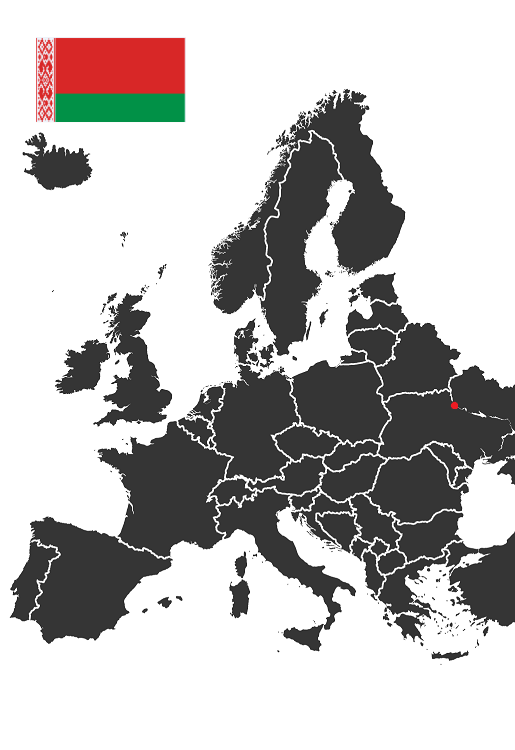
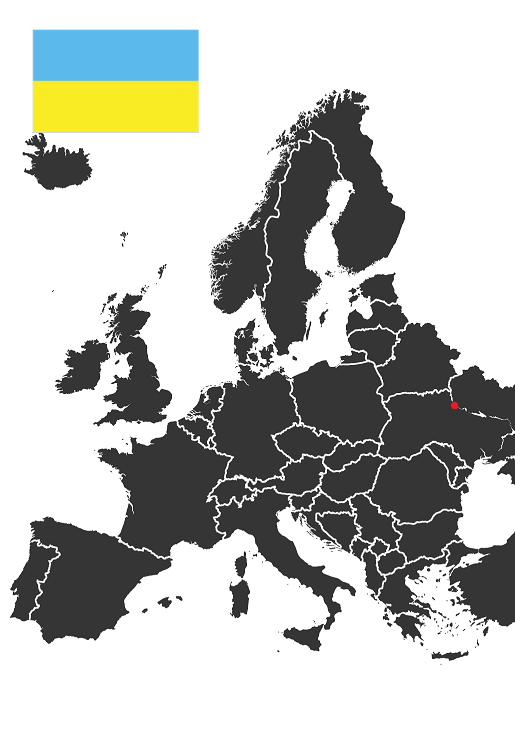
replaced europe-14 and small corrections in How to play?

Changed region(s): [[0.0621, 0.0307, 0.4039, 0.184]]

diff --git a/index.html b/index.html
@@ -145,9 +145,9 @@
                             <li>Enter it's name and hit submit</li>
                             <li>If you're right, you get 15 points</li>
                             <li>Not sure? Ask for a hint and the flag of the nation of the capital is shown</li>
-                            <li>A hint will cost you 5 point, just like a wrong answer does</li>
+                            <li>A hint will cost you 5 points, just like a wrong answer does</li>
                             <li>After two wrong answers, the right answer will be shown. So use the hint wisely</li>
-                            <li>Each game contains 10 riders</li>
+                            <li>Each game contains 10 capitals</li>
                             <li>Don't doubt too long, every second you have to spare is added to your score</i>
                             <li>Enjoy!</li>
                         </ul>
